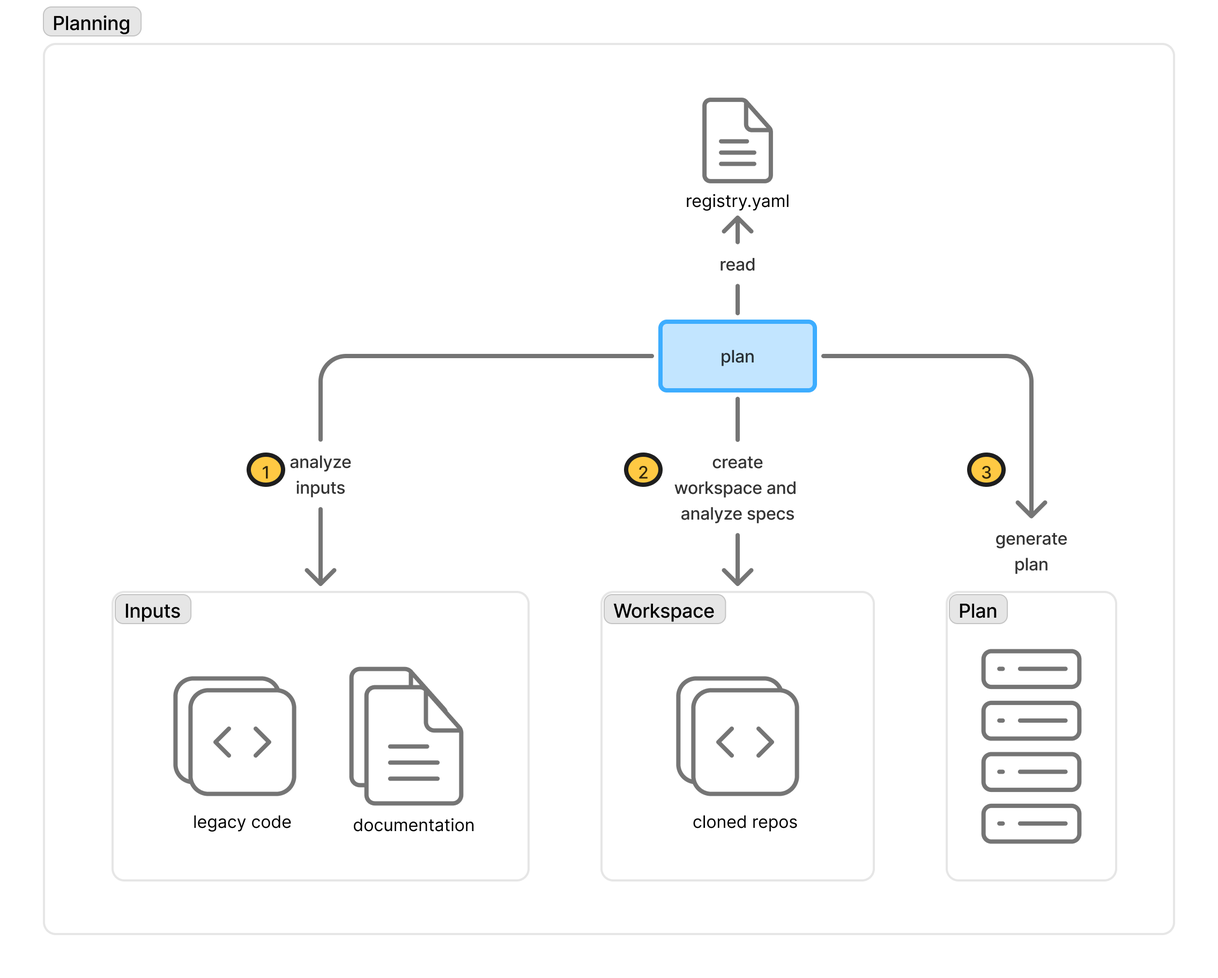
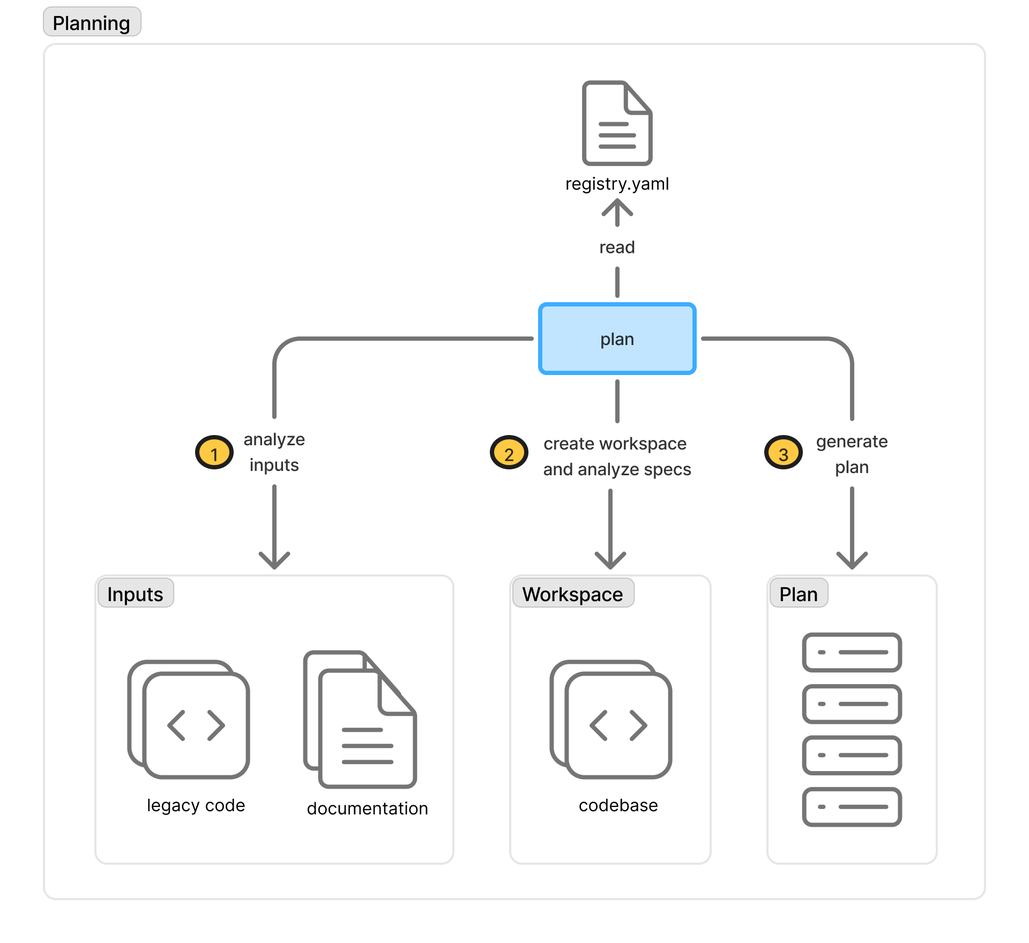
update plan

diff --git a/rfcs/rfc-3-planning.md b/rfcs/rfc-3-planning.md
@@ -1,39 +1,47 @@
-# RFC-3: Multi-Repo Planning
+# RFC-3: Initiative Planning
 
 > Status: Draft · Depends: [RFC-1](archive/rfc-1-cli.md), [RFC-2](archive/rfc-2-execution.md)
 
 ## Abstract
 
-Introduce a **planning stage** that turns a multi-repo initiative into the artifact RFC-2's `/spec:execute` consumes. Given a `registry.yaml` declaring the projects in scope, plus a set of inputs (legacy code, documentation), the `plan` pipeline (a) analyses inputs, (b) materialises a local **workspace** of cloned repos and inventories their specs, and (c) generates the **Plan** (`plan.yaml`) RFC-2 drains change-by-change.
+Extend RFC-2's `/spec:plan` into a **registry-aware** authoring skill that scales unchanged from a single repo to 100+ repos.
 
-This reframes RFC-3 from spec federation at execution time to initiative planning across repos. Cross-repo spec references (`@peer:capability`) and contract validation — the earlier draft's federation content — remain useful, but they are an execution-time concern that sits downstream of the planning pipeline introduced here. They are captured as Layer 3 and detailed in a follow-up revision.
+One new, optional file scopes the initiative: `.specify/registry.yaml` declares the projects in scope and the seed inputs to analyse. Its absence is the signal for "single-repo system" and requires no operator action.
+
+Internally, `/spec:plan` runs a fixed three-phase flow: *analyse inputs* → *(sync peers)* → *generate plan*. The middle phase runs automatically when `registry.yaml` is present and clones every listed repo into `.specify/workspace/<project>/` for read-only inventory. Discovery dispatches to `/spec:extract` for `kind: legacy-code` inputs and to `/spec:analyze` (a new skill introduced by this RFC) for `kind: documentation` inputs; any other kind is a hard error. `/spec:plan` remains the single operator-facing entry point — the invocation shape, core loop, and single-writer invariant are unchanged.
+
+There is no pipeline declaration file. RFC-3 does not move `pipeline.plan` anywhere: it eliminates the configuration surface entirely for v1 so the fixed shape is the only shape. `schema.yaml` retains its Layer 1 role (`define/build/merge`); no planning config lives there. Configurability is re-addable in a later RFC without migration (see *Alternatives Considered*).
+
+RFC-3 addresses initiative planning across repos. Cross-repo spec references and contract validation are an execution-time concern that sits downstream of the planning flow introduced here. They are captured as Layer 3 and detailed in a follow-up revision.
 
 ## Planning Model Overview
 
-![Specify Framework planning model](assets/planning.png)
+Specify planning model
 
-The `plan` pipeline is a three-step process driven by `registry.yaml`:
+`/spec:plan` runs a fixed internal flow. For single-repo initiatives the flow is *analyse inputs → generate plan*; for multi-repo initiatives (registry present) a *sync peers* phase is inserted between them. The three diagram phases correspond to:
 
-1. **Analyse inputs.** Read seed material — legacy code, design documents, existing specs — and extract candidate capabilities, constraints, and open questions.
-2. **Create workspace and analyse specs.** Clone every project declared in `registry.yaml` into `.specify/.workspace/<project>/` (local, read-only cache), then inventory each repo's existing `.specify/` tree (baseline specs, in-flight plans, schema).
-3. **Generate plan.** Combine the input analysis and the workspace inventory into a **Plan**: the ordered, dependency-aware list of changes RFC-2 drains with `specify initiative next`.
+1. **Analyse inputs.** Read seed material — legacy code, documentation — and extract candidate capabilities, constraints, and open questions. Dispatches to `/spec:extract` for code and `/spec:analyze` for documentation based on each input's declared `kind`. Emits `discovery.md`.
+2. **Sync peers.** *(Runs iff `registry.yaml` is present.)* Clone every project declared in `registry.yaml` into `.specify/workspace/<project>/` (local, read-only cache), then inventory each repo's existing `.specify/` tree (baseline specs, in-flight plans, schema). Emits `workspace.md`.
+3. **Generate plan.** Combine the input inventory (`discovery.md`) and — when present — the peer inventory (`workspace.md`) into the **Plan**: the ordered, dependency-aware list of changes RFC-2 drains with `specify initiative next`. Emits `plan.yaml`.
 
 The `Plan` box in this diagram is the same `Plan` box on the left of RFC-2's execution diagram. Planning produces it; execution consumes it and amends it back.
 
-Like RFC-2, the diagram is schema-agnostic: the three steps are briefs declared by the active schema's `pipeline.plan`. RFC-3 extends that pipeline to span multiple repos via the registry and workspace; the surrounding structure — pipeline, driver skill, CLI — is invariant.
+The flow is fixed: phases run in order, and the *sync peers* phase is present if and only if `registry.yaml` is. There is no operator-visible step ID surface, no configuration file, and no auto-insert policy to diagnose. The diagram labels (`discovery`, `workspace`, `propose`) and artifact filenames (`discovery.md`, `workspace.md`) retain those names for continuity; the RFC prose uses the activity-oriented descriptions above.
 
 ### Diagram labels → skills and CLI
 
-| Diagram label                        | Skill                             | CLI                                                    |
-| ------------------------------------ | --------------------------------- | ------------------------------------------------------ |
-| `plan` (centre)                      | `/spec:plan` (extended)           | `specify initiative plan`                              |
-| `registry.yaml` (read)               | —                                 | `specify initiative registry {show, validate}`         |
-| Step ① — analyse inputs              | brief: `analyse-inputs.md`        | — (brief-driven; reads `registry.yaml:inputs`)         |
-| Step ② — create workspace / specs    | brief: `analyse-specs.md`         | `specify initiative workspace sync`                    |
-| Step ③ — generate plan               | brief: `generate-plan.md`         | `specify initiative create` / `… amend` / `… lock`     |
-| `Inputs` box (legacy code, docs)     | —                                 | — (filesystem paths under `inputs:` in registry)       |
-| `Workspace` box (cloned repos)       | —                                 | `.specify/.workspace/<project>/`                       |
-| `Plan` box (output)                  | —                                 | `.specify/plan.yaml` (RFC-2 format, unchanged)         |
+
+| Diagram label                     | Phase / skill                                 | CLI                                                                         |
+| --------------------------------- | --------------------------------------------- | --------------------------------------------------------------------------- |
+| `plan` (centre)                   | `/spec:plan` (registry-aware)                 | `specify initiative {init, create, amend, validate}` (unchanged from RFC-2) |
+| `registry.yaml` (read)            | —                                             | `specify initiative registry {show, validate}` *(TBD)*                      |
+| Step ① — analyse inputs           | Discovery → `/spec:extract`, `/spec:analyze`  | — (phase reads `--from` / `--against` / `--source` + registry inputs)       |
+| Step ② — sync peers               | Workspace (CLI-driven)                        | `specify initiative workspace {sync, status}` *(TBD)*                       |
+| Step ③ — generate plan            | Propose                                       | `specify initiative create` (per accepted slice; unchanged from RFC-2)      |
+| `Inputs` box (legacy code, docs)  | —                                             | — (filesystem paths under `--from` / `--source` or `registry.yaml:inputs`)  |
+| `Workspace` box (cloned repos)    | —                                             | `.specify/workspace/<project>/`                                             |
+| `Plan` box (output)               | —                                             | `.specify/plan.yaml` (RFC-2 format, unchanged)                              |
+
 
 ## Motivation
 
@@ -43,20 +51,36 @@ RFC-2 assumes you already know the changes. For three common cases, you don't:
 - **Greenfield across multiple repos.** Backend, frontend, and shared-types need coordinated changes, but the per-repo plans don't exist yet.
 - **Platform initiatives.** A feature like "add OAuth login" must be decomposed across repos before any per-repo loop can run.
 
-RFC-2's Layer 3 `/spec:plan` skill addresses the first case for a single repo. The multi-repo case has no equivalent — no declared scope of "the repos this initiative spans", no shared workspace for cross-repo analysis, no coordinated output. RFC-3 fills that gap.
+RFC-2's Layer 3 `/spec:plan` skill addresses the first case for a single repo. The multi-repo case has no equivalent — no declared scope of "the repos this initiative spans", no shared workspace for cross-repo analysis. The gap isn't a new skill; it's an initiative-scoped `registry.yaml` and a *sync peers* phase that `/spec:plan` runs automatically when the registry is present.
 
 ## Dependency on RFC-1 and RFC-2
 
-- **RFC-1 (CLI):** registry parsing, clone orchestration, workspace layout, and plan writes all go through `specify` subcommands. No hand-edited files.
-- **RFC-2 (Plans):** the Plan format is unchanged. RFC-3 is a *producer* of RFC-2 plans, not a competing format. `/spec:execute` consumes RFC-3-produced plans exactly as it consumes hand-authored or `/spec:plan`-authored ones.
+- **RFC-1 (CLI):** registry parsing, clone orchestration, workspace layout, and plan writes all go through `specify` subcommands. No hand-edited plans. Cloning is deterministic CLI work — `/spec:plan` shells out to `specify initiative workspace sync` rather than delegating to a cloning skill.
+- **RFC-2 (Plans):** the Plan format is unchanged. The `/spec:plan` skill — its invocation, its core loop, and its single-writer invariant — is unchanged. RFC-3 adds registry awareness, a fixed internal *sync peers* phase, and a documentation-analysis skill; the operator-facing contract is the same.
+- **No planning configuration.** RFC-2 Layer 3 placed `pipeline.plan` inside `schema.yaml`. RFC-3 does not relocate that declaration to a new file — it eliminates it. `/spec:plan`'s internal flow is fixed for v1. `schema.yaml` retains its Layer 1 role (`define/build/merge`). Stack-specific planning helpers (e.g. slice-heuristic prose) may still ship in schema directories and be consumed directly by the *generate plan* phase.
 
-RFC-3 is structured in three layers that mirror RFC-2's layering; each layer is independently useful. **Layer 1** is single-repo planning — a generalisation of `/spec:plan` that runs the three-step pipeline against one project. **Layer 2** adds multi-repo planning with workspace cloning and cross-repo synthesis. **Layer 3** adds federation at execution time (cross-repo spec refs, contract reconciliation) on top of the workspace Layer 2 materialises.
+RFC-3 is structured in three layers; each layer describes a feature added to the planning flow (or, for Layer 3, the per-repo execution loop), not a separate skill or invocation path. **Layer 1** makes `/spec:plan` registry-aware and fixes the discovery-dispatch rule for code vs. documentation inputs. **Layer 2** adds the *sync peers* phase. **Layer 3** adds federation at execution time on top of the workspace Layer 2 materialises.
 
 ---
 
-## Layer 1: Single-Repo Planning (MVP)
+## Layer 1: Registry-aware `/spec:plan`
 
-Layer 1 generalises RFC-2's `/spec:plan` into the three-step pipeline shape shown in the diagram, with a `registry.yaml` that declares one project (the current repo) and an optional `inputs` section.
+Layer 1 adds one optional file to `/spec:plan`'s input surface: `.specify/registry.yaml` (initiative scope). Absent → the skill behaves exactly as today, running *analyse inputs → generate plan* against the current repo with no remote peers.
+
+### When is `registry.yaml` required?
+
+`registry.yaml` is **optional**. Its absence is the canonical signal for a single-repo system; no operator action — no file, no flag, no template — is needed to opt out of multi-repo planning.
+
+
+| Situation       | `registry.yaml`                                                                                   |
+| --------------- | ------------------------------------------------------------------------------------------------- |
+| Single repo     | **Absent.** `/spec:plan` treats the current repo as the one in-scope project implicitly.         |
+| Multiple repos  | **Required.** The *sync peers* phase (Layer 2) reads it to clone peers; absence is a hard error. |
+
+
+A single-repo degenerate form (`registry.yaml` present with one `projects[]` entry, `url: .`) is supported but redundant; its only practical use is pinning `inputs` in-tree.
+
+The RFC-2 readiness gate — "at least one of `--from`, `--against`, or `--source` must be supplied" — widens under Layer 1 to **"...or `registry.yaml:inputs` is non-empty."** A bare `/spec:plan <name>` with no CLI inputs but a populated `registry.yaml:inputs` is valid; a bare `/spec:plan <name>` with neither is still a hard exit, as today.
 
 ### The Registry
 
@@ -67,7 +91,7 @@ version: 1
 
 projects:
   - name: traffic
-    url: .                # Layer 1: the only project is this repo
+    url: .                # Layer 1 degenerate case: the only project is this repo
     schema: omnia@v1
 
 inputs:
@@ -77,27 +101,42 @@ inputs:
     kind: documentation
 ```
 
-`projects` enumerates the repos in scope. `inputs` enumerates seed material the pipeline analyses. Both are optional in principle, but at least one project (`.` for Layer 1) is required for the pipeline to have something to plan against.
+`projects` enumerates the repos in scope. `inputs` enumerates seed material the *analyse inputs* phase dispatches on. Both are optional.
 
-### The `plan` Pipeline
+### Discovery dispatch
+
+The *analyse inputs* phase routes each input to a skill based on its declared `kind`:
+
+
+| `kind`          | Dispatch target  | Purpose                                                              |
+| --------------- | ---------------- | -------------------------------------------------------------------- |
+| `legacy-code`   | `/spec:extract`  | Reconstruct language-agnostic specs + design from existing source.   |
+| `documentation` | `/spec:analyze`  | Extract capabilities, constraints, and open questions from docs.     |
+
+
+The `kind` vocabulary is a **closed enum** for v1. An input with any other `kind` is a hard error at the *analyse inputs* phase; extending the vocabulary requires a new skill and an RFC update. This keeps discovery auditable ("which skill produced this line of `discovery.md`?") and forces any future ambiguity in source material to be resolved at the RFC level rather than by a generic fallback.
+
+`/spec:extract` already exists (RFC-2 Layer 3). `/spec:analyze` is **new in RFC-3**; its detailed design — prompts, artifact format, relationship to `discovery.md` — is deferred to a follow-up skill RFC. RFC-3 fixes only the contract: read documentation inputs and contribute candidate capabilities / constraints / open questions to `discovery.md` in the same shape `/spec:extract` uses.
+
+### `--source` flags and the registry
+
+`/spec:plan`'s existing `--source <key>=<path-or-url>` / `--from` / `--against` flags continue to work unchanged. They're additive with `registry.yaml:inputs` — the *analyse inputs* phase reads both and merges them into `discovery.md`. Inputs supplied via CLI flags carry an explicit kind (e.g. `--source legacy=./old/:legacy-code`) so they route through the same closed-enum dispatch as registry inputs.
+
+### The flow
 
 ```
-analyse-inputs ──▶ analyse-specs ──▶ generate-plan ──▶ plan.yaml
+analyse inputs ──▶ generate plan ──▶ plan.yaml
 ```
 
-Each step is a brief declared by the schema's `pipeline.plan`:
-
-- **Step 1 — analyse-inputs.** Reads `registry.yaml:inputs` and emits a candidate-capabilities artifact (what the initiative plausibly delivers, what's already covered, what's ambiguous).
-- **Step 2 — analyse-specs.** Inventories the repo's existing `.specify/` tree — baseline specs, in-flight plans, schema. In Layer 1 there is no cloning to do; the workspace is the current repo.
-- **Step 3 — generate-plan.** Synthesises the Plan: per-capability change entries wired into RFC-2's `sources` / `depends-on` / `affects` fields, written via `specify initiative create` / `… amend`.
-
-Layer 1 is effectively today's `/spec:plan` with `registry.yaml` as its declared input surface. The existing skill becomes a Layer 1 specialisation of this pipeline.
+Unchanged from today. The *sync peers* phase is absent because `registry.yaml` is absent.
 
 ---
 
-## Layer 2: Multi-Repo Planning
+## Layer 2: Multi-repo planning with the workspace
 
-Layer 2 is the case the diagram describes: `registry.yaml` declares several repos, `specify initiative plan` clones them into a local workspace, and the pipeline synthesises coordinated plans.
+Layer 2 is the case the diagram describes: `registry.yaml` declares several repos, the *sync peers* phase clones them and inventories their specs, and *generate plan* consumes both the input inventory and the peer inventory.
+
+`registry.yaml` is **required** in this layer — the *sync peers* phase has nothing to do without a registry, and is only present in the flow when the registry is. A single-repo run (no registry) never reaches this requirement.
 
 ### The Registry (multi-project)
 
@@ -122,40 +161,65 @@ inputs:
     kind: documentation
 ```
 
-### The Workspace
+### The flow
+
+```
+analyse inputs ──▶ sync peers ──▶ generate plan ──▶ plan.yaml
+```
+
+Nothing about the `/spec:plan` invocation changes — the skill runs the fixed flow, and the presence of `registry.yaml` decides whether the *sync peers* phase is included.
+
+### The sync-peers phase
+
+Executed between *analyse inputs* and *generate plan*:
+
+1. **Sync.** Shells out to `specify initiative workspace sync` to clone or fetch every `projects[]` entry into `.specify/workspace/<project-name>/` (local, read-only cache). Local projects (`url: .` or relative paths) are symlinked, not cloned. Cloning is a deterministic CLI operation; no cloning skill is involved.
+2. **Inventory.** Walks each peer's `.specify/` tree — baseline specs, active plans, schema — and emits `.specify/plans/<initiative-name>/workspace.md` (a peer-by-peer summary of what's already specified and what's in flight).
+
+`workspace.md` becomes a new input to *generate plan*, alongside `discovery.md`. No writes ever land in peer clones during planning.
+
+### The workspace layout
 
 ```
 .specify/
-  registry.yaml
-  .workspace/
-    traffic/            # git clone of org/traffic (read-only)
-    command-centre/     # git clone of org/command-centre
-  inputs/
-    legacy-traffic/
-    ops-runbook.pdf
-  plan.yaml             # this repo's plan
-  plans/                # per-peer draft plans awaiting distribution
-    traffic/plan.yaml
-    command-centre/plan.yaml
+  registry.yaml         # required in Layer 2
+  workspace/
+    traffic/            # clone of org/traffic (read-only)
+    command-centre/     # clone of org/command-centre
+  plans/
+    <initiative-name>/
+      discovery.md      # from analyse inputs (Layer 1)
+      workspace.md      # from sync peers (Layer 2, NEW)
+      proposal.md       # from generate plan (Layer 1)
+  plan.yaml             # authored plan (RFC-2 format)
 ```
 
-The workspace is a local, read-only cache. It is `.gitignore`d by default and rebuilt by `specify initiative workspace sync`. No writes ever land in peer clones during planning.
+`.specify/workspace/` is `.gitignore`d by default and rebuilt by `specify initiative workspace sync`.
 
-### Output: coordinated plans
+### Plan output shape
 
-Layer 2 produces one of two output modes, selected by the active schema's `pipeline.plan`:
+The *generate plan* phase emits a **single cross-repo `plan.yaml`** in the initiating repo. Entries whose work spans peer projects reference them by registry name in `sources` / `affects`; execution of those entries requires Layer 3.
 
-1. **A single plan with cross-repo entries.** When one repo initiates the initiative and drives it, `plan.yaml` contains entries whose `sources` or `affects` reference peer projects by registry name. Execution of cross-repo entries requires Layer 3. *(Detail TBD.)*
-2. **Per-repo plans linked by a feature manifest.** Each peer gets its own `plan.yaml`, staged under `.specify/plans/<peer>/` in the initiating repo and delivered to the peer out-of-band (PR, push, or manual). A top-level **feature manifest** links them and tracks aggregate status. The feature manifest is the cross-repo coordination artifact; it replaces nothing in RFC-2 and is authored only when an initiative spans repos. *(Detail TBD — manifest format, delivery mechanism, status tracking across peers.)*
+Per-repo `plan.yaml`s linked by a feature manifest — staged under `.specify/plans/<initiative-name>/<peer>/` and delivered out-of-band — is a plausible alternative output shape, but it is deferred (see *Alternatives Considered*). RFC-3 ships with exactly one shape.
 
 ### CLI surface additions
 
-| Operation                          | CLI                                                        |
-| ---------------------------------- | ---------------------------------------------------------- |
-| Clone / refresh workspace          | `specify initiative workspace sync`                        |
-| Inspect workspace state            | `specify initiative workspace status`                      |
-| Emit per-peer plan drafts          | `specify initiative plan --output per-peer` *(TBD)*        |
-| Create / update feature manifest   | `specify initiative manifest {init, amend, status}` *(TBD)*|
+
+| Operation                 | CLI                                                    |
+| ------------------------- | ------------------------------------------------------ |
+| Read / verify registry    | `specify initiative registry {show, validate}` *(TBD)* |
+| Clone / refresh workspace | `specify initiative workspace sync` *(TBD)*            |
+| Inspect workspace state   | `specify initiative workspace status` *(TBD)*          |
+
+
+These are all machinery the *sync peers* / *generate plan* phases shell out to; none are operator-facing entry points. `/spec:plan` remains the only command humans invoke.
+
+### `--dry-run` and `--extend` under Layer 2
+
+- **`--dry-run`.** The *sync peers* phase's read side may run (inventory whatever is already cloned) but MUST NOT clone new repos, write to `.specify/workspace/`, or write `workspace.md`. Mirrors the *analyse inputs* dry-run rule.
+- **`--extend`.** When `.specify/workspace/` is already present, the *sync peers* phase may skip re-sync; `workspace.md` is regenerated from the existing cache. Refresh-on-`--extend` policy is *(TBD)*.
+
+The single-writer invariant is unaffected: *sync peers* writes `workspace.md` under `.specify/plans/<name>/` and clones into `.specify/workspace/`; neither path touches `.specify/plan.yaml`.
 
 ---
 
@@ -163,11 +227,11 @@ Layer 2 produces one of two output modes, selected by the active schema's `pipel
 
 Layer 3 is the smallest possible addition to RFC-2's per-repo execution loop once the workspace exists:
 
-- **Cross-repo spec references.** `@peer:capability` syntax in spec bodies. The CLI resolves against `.specify/.workspace/<peer>/specs/`.
-- **Contract reconciliation.** `specify federation validate` compares provider / consumer contracts declared in the feature manifest and flags mismatches across the workspace.
-- **Feature-manifest status aggregation.** Read-only roll-up of peer change statuses into the initiating repo's feature manifest.
+- **Cross-repo spec references.** `@peer:capability` syntax in spec bodies. The CLI resolves against `.specify/workspace/<peer>/specs/`.
+- **Contract reconciliation.** `specify federation validate` compares provider / consumer contracts declared across repos and flags mismatches across the workspace.
+- **Peer status aggregation.** Read-only roll-up of peer change statuses into the initiating repo.
 
-The original `rfc-3-federation.md` draft is primarily about this layer. Its content is captured in a follow-up revision once Layer 1/2 land; the key move is that Layer 3 operates on the same workspace Layer 2 materialises, so no new cloning, config, or peer discovery is required.
+Layer 3 reads the same `.specify/workspace/` that Layer 2 materialises, so no new cloning, config, or peer discovery is required.
 
 *(Detail TBD — ported from the federation draft.)*
 
@@ -175,11 +239,17 @@ The original `rfc-3-federation.md` draft is primarily about this layer. Its cont
 
 ## Relation to RFC-2
 
-- RFC-2 Layer 3 (`/spec:plan`) becomes the single-repo specialisation of RFC-3 Layer 1. Its `pipeline.plan` briefs are the same briefs RFC-3 extends.
-- RFC-2's Plan format is unchanged. RFC-3's only contribution on the Plan itself is semantic: `sources` and `affects` may reference peer projects by registry name (resolved via `registry.yaml`).
+- RFC-2's `/spec:plan` skill is unchanged in invocation, core loop, working directory, and single-writer invariant. RFC-3's contribution is registry awareness, a fixed internal *sync peers* phase that runs automatically when `registry.yaml` is present, and a new `/spec:analyze` skill for documentation inputs; the skill picks up all three automatically.
+- RFC-2 Layer 3 placed `pipeline.plan` inside `schema.yaml`. RFC-3 does not relocate that declaration to any new file — it removes the configuration surface. `schema.yaml` returns to its Layer 1 role (per-repo `define/build/merge`). Stack-specific planning helpers may still ship in schema directories and be consumed directly by the *generate plan* phase; that is a separate concern from a pipeline-shape declaration, which no longer exists.
+- The Plan format is unchanged. RFC-3's only semantic extension on the Plan itself is that `sources` and `affects` may reference peer projects by registry name (resolved via `registry.yaml`).
 - The `amend` edge in RFC-2's execution diagram — a phase discovering a neighbouring change and calling `specify initiative amend` — continues to work identically on RFC-3-produced plans.
+- `specify initiative archive` sweeps `.specify/plans/<name>/` alongside `plan.yaml` as today; the new `workspace.md` artifact is archived with the rest, no code change required.
 
 ## Alternatives Considered
+
+### Configurable planning pipeline (`planning.yaml`)
+
+An earlier draft introduced `.specify/planning.yaml` declaring the authoring pipeline (`discovery → [workspace?] → propose`) with a CLI-provided default keyed on `registry.yaml` presence. RFC-3 v1 ships without that file. The configurability it enabled — custom step order, alternative *generate plan* implementations, pinning against auto-insert policy changes — is not needed for the initiatives RFC-3 is designed to serve, and the diagnostic surface it required (`planning show`, "resolved pipeline and its source") is real ongoing cost. The fixed flow has one shape, one set of phase names, and no "which pipeline is in effect?" question. If experience later reveals a need for alternative pipelines, `planning.yaml` can be reintroduced in a follow-up RFC with default = this RFC's fixed flow and no migration for existing repos, because nothing in v1 records the flow explicitly anywhere.
 
 ### Registry repo
 
@@ -189,11 +259,19 @@ A separate dedicated registry repo creates a coordination bottleneck. Every chan
 
 If you're coordinating across *organisations* (not just repos), a registry repo makes more sense because you can't assume write access to peer repos. In that case, the registry holds the change manifests and peer spec snapshots, and the CLI treats them as read-only. Start with the in-initiator model for the single-organisation case.
 
-### Plan-per-repo vs single cross-repo plan
+### Plan-per-repo + feature manifest
 
-*(Detail TBD — tradeoffs, when to pick which, how the feature manifest differs from a "big plan".)*
+RFC-3 emits a single cross-repo `plan.yaml` in the initiating repo. An alternative shape — each peer gets its own `plan.yaml` staged under `.specify/plans/<initiative-name>/<peer>/` in the initiator, linked by a top-level feature manifest tracking aggregate status — is plausible and probably the right long-term direction for peer autonomy and independent delivery. It is deferred because it adds three unsettled design problems at once (manifest format, cross-repo delivery mechanism, aggregate status tracking) and none of them are blocking for getting the single-plan case working. RFC-3 picks the smaller shape; a later RFC can add the manifest-linked shape without changing the Layer 1 / Layer 2 contract.
+
+### Open `kind` vocabulary
+
+An input `kind` not in the closed enum (`legacy-code`, `documentation`) is a hard error in v1. Warn-and-skip and "treat unknown as generic text" were both rejected. Warn-and-skip hides real configuration bugs behind a log line; a generic fallback pushes skill selection into the input author's head ("will my OpenAPI spec get extracted or analysed?") and makes `discovery.md` provenance opaque. The closed enum keeps the skill-selection contract explicit: extending it requires adding a skill and an RFC update, which is the right forcing function.
+
+### `/rt:git-cloner` as the cloning delegate
+
+The *sync peers* phase could delegate cloning to the existing `/rt:git-cloner` skill. RFC-3 does not: cloning is deterministic work with no judgment in it, which per RFC-1 belongs in the CLI (`specify initiative workspace sync`). Routing it through a skill would also couple a core Specify flow to the `rt` plugin, which is the wrong layering.
 
 ## References
 
 - [RFC-1: `specify` CLI](archive/rfc-1-cli.md) — CLI surface this RFC extends.
-- [RFC-2: Execution](archive/rfc-2-execution.md) — consumer of the Plan this RFC produces.
+- [RFC-2: Execution](archive/rfc-2-execution.md) — consumer of the Plan this RFC produces; introduces the `/spec:plan` skill RFC-3 extends.

diff --git a/rfcs/roadmap.md b/rfcs/roadmap.md
@@ -28,7 +28,7 @@ See also: [RFC-1a: Deferred Validation](archive/rfc-1a-validation.md) — the th
 
 **Problem:** RFC-2 assumes you already know the changes. For legacy modernisation, greenfield builds across multiple repos, and platform-wide initiatives, the agent has to *derive* the changes from inputs (legacy code, documentation) and coordinate them across a set of repos whose scope isn't declared anywhere. RFC-2's `/spec:plan` handles single-repo plan authoring; the multi-repo case has no equivalent.
 
-**Solution:** A `registry.yaml` declaring the projects in scope for an initiative, and a three-step `plan` pipeline — analyse inputs, materialise a local workspace of cloned peer repos, generate the Plan — that emits the `plan.yaml` RFC-2's `/spec:execute` consumes. Layer 1 is single-repo (generalises `/spec:plan`); Layer 2 adds multi-repo planning with workspace cloning; Layer 3 adds federation at execution time (cross-repo spec references, contract reconciliation) on top of the same workspace.
+**Solution:** Extend `/spec:plan` to be registry-aware, and add a fixed *sync peers* phase that runs automatically when `registry.yaml` is present, cloning peer repos into `.specify/workspace/` and inventorying their specs. Inputs are dispatched by `kind`: legacy code to `/spec:extract`, documentation to a new `/spec:analyze` skill; the vocabulary is a closed enum. The same `/spec:plan <name>` command scales unchanged from a single repo to 100+ repos, with no planning configuration file. Layer 1 introduces `registry.yaml` and the discovery-dispatch contract; Layer 2 adds the sync-peers phase for multi-repo runs; Layer 3 adds federation at execution time (cross-repo spec references, contract reconciliation) on top of the same workspace.
 
 ## [RFC-4: Type-Safe Skill Expression](rfc-4-dsl.md)
 
